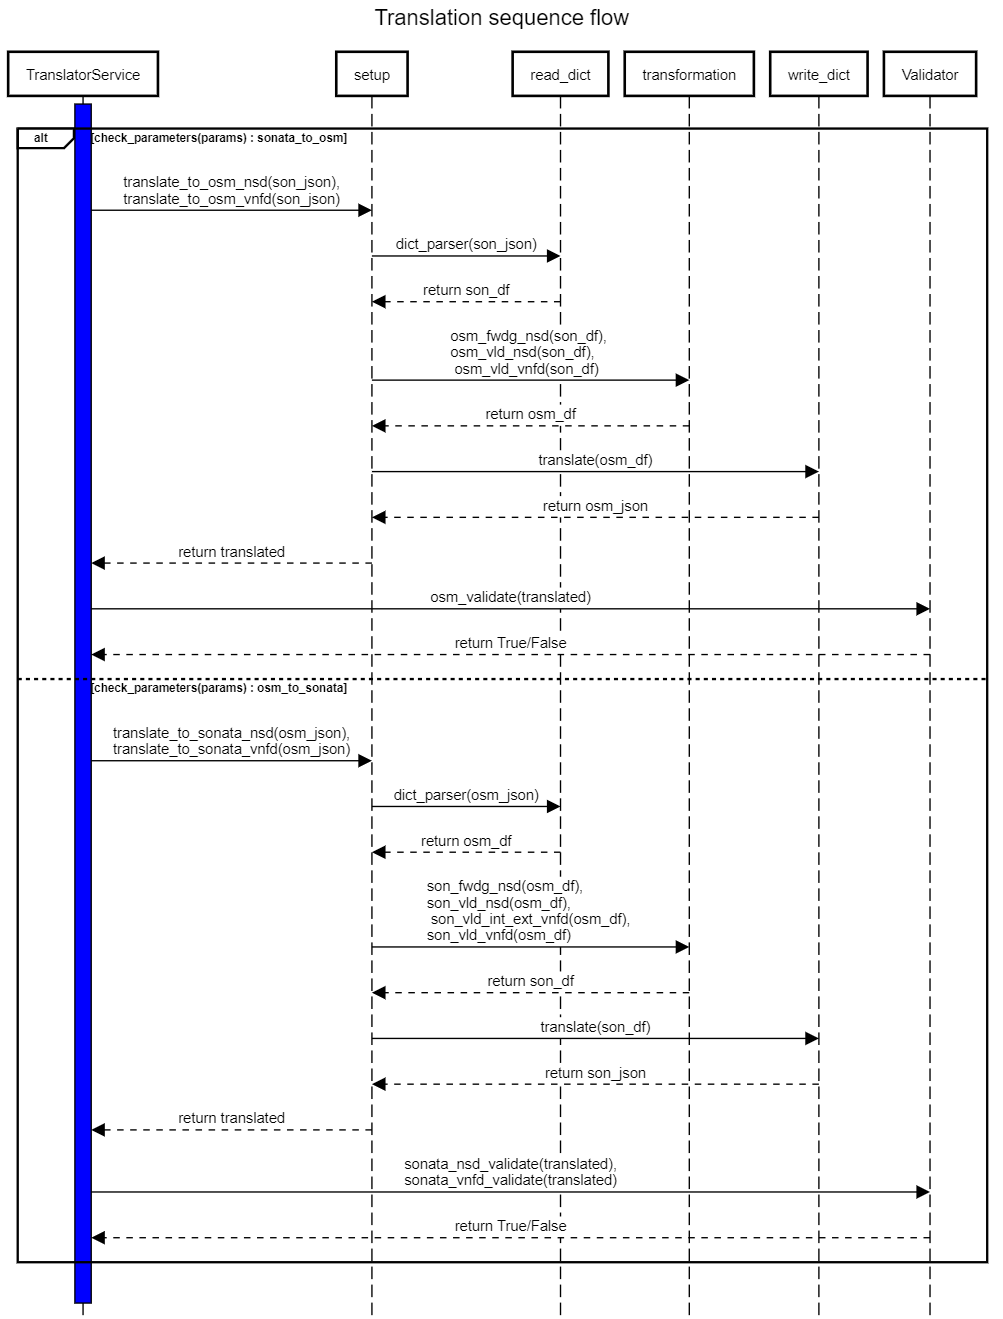
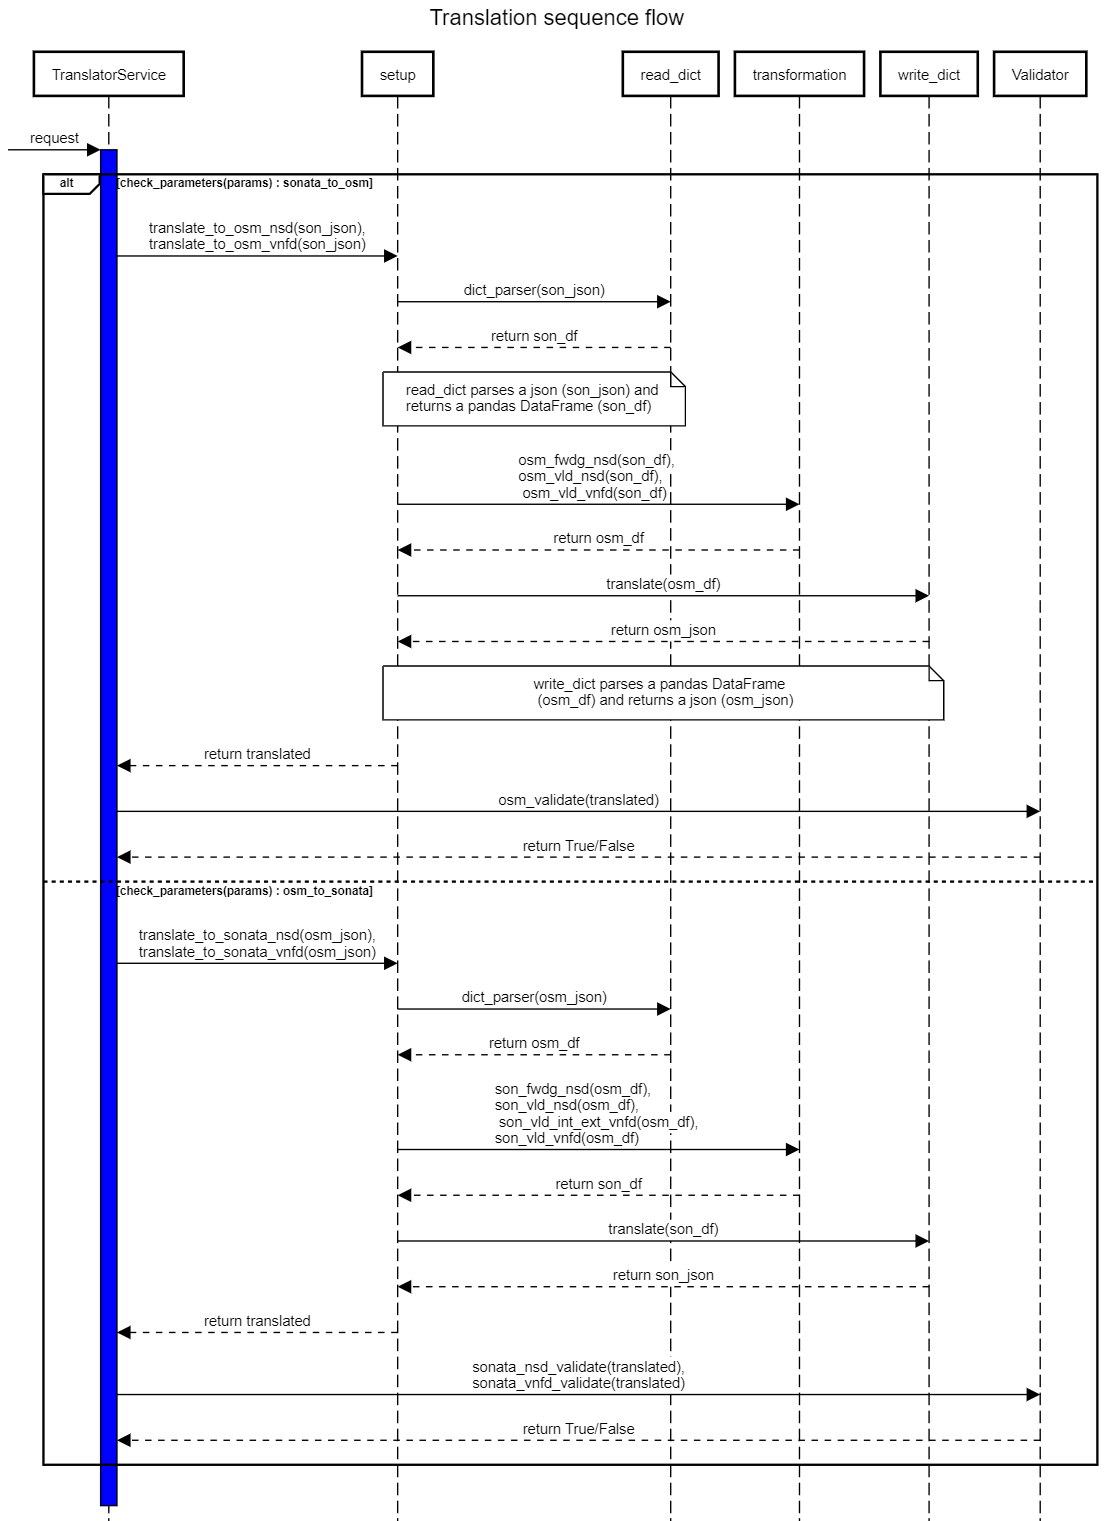
[updated] workpackages.tex for translator

diff --git a/doc/Final Project Report/chapters/WorkPackages.tex b/doc/Final Project Report/chapters/WorkPackages.tex
@@ -6,9 +6,6 @@
 In a hierarchical architecture involving different MANOs, there is a need of conversion of network descriptors to schemas of respective MANO. Service Descriptor Translator (SDT) serves the purpose of translating network descriptors, namely NSDs and VNFDs from schema of SONATA Pishahang to that of OSM and vice versa.
 \paragraph{}
 In a scenario, where a parent MANO, say Pishahang decides to deploy one of the network services in its lower hierarchy MANO, say OSM, the NSD and VNFD(s) need to be converted to the descriptor schema of OSM. In such an event, the Scramble plugin calls the translator service and sends the descriptors to the SDT, where the translation of the descriptors takes place and the translated descriptors are sent to Adaptor utility for deployment in appropriate MANO. Figure \ref{fig:service-descriptor-translator} gives a high level view of Translator.
-\paragraph{}
-Scramble plug-in, installed within the parent MANO, forwards the network descriptors with service request to Scramble Main-Engine. Main-Engine checks the service request and sends the network descriptors to Translator along with the information of destination schema. On receiving the network descriptors, SDT translates the same to requested schema and calls the validator function to validate the translated network descriptors. Once validation is complete, the translated descriptors will be sent to Adaptor for deployment. 
-
 
 \begin{figure}
 	\centering
@@ -18,13 +15,13 @@ Scramble plug-in, installed within the parent MANO, forwards the network descrip
 \end{figure}
 
 \subsection{Architecture \& Work flow}
-The translator engine reads a json formatted descriptor and first converts it into a pandas \textit{DataFrame}. The \textit{DataFrame} is constructed to have the following columns.
+The translator engine reads a json formatted descriptor and first converts it into a pandas \textit{DataFrame}. The \textit{DataFrame} object is constructed to have the following columns.
 
 \begin{table}[H]
 	\begin{center}
 		\caption{Descriptor represented DataFrame.}
 		\label{tab:table1}
-		\begin{tabular}{l|l} % <-- Alignments: 1st column left, 2nd middle and 3rd right, with vertical lines in between
+		\begin{tabular}{l|l} 
 			\textbf{Columns} & \textbf{Description} \\
 			\hline
 			\textbf{parent\_level} & It stores immediate parent key's depth-level \\ 
@@ -32,12 +29,23 @@ The translator engine reads a json formatted descriptor and first converts it in
 			\textbf{level} & It stores current key's depth-level \\
 			\textbf{key} & It stores current key \\
 			\textbf{value} & It stores current key's value \\
-			\textbf{lineage} & It stores current key's entire lineage from the root depth-level \\  
+			\textbf{lineage} & \makecell[l]{It stores current key's entire lineage from the root depth-level.\\ It is useful to store the nested information} \\  
 		\end{tabular}
 	\end{center}
 \end{table}
+
+The \textit{setup} and \textit{transformation} classes of the translator engine carries out all the transformation, needed to translate between OSM and Pishahang descriptors, on the \textit{DataFrame} object. Once all the transformation are over, the resulting \textit{DataFrame} is then converted again into a json (refer Figure  \ref{fig:sequence-diagram-translator}).
+
+\begin{figure}[h!]
+	\centering
+	\includegraphics[width=1\linewidth]{"figures/translator_seq_diag"}
+	\caption{Translator sequence diagram}
+	\label{fig:sequence-diagram-translator}
+\end{figure}
+
+
 \subsection{Usage}
-The Translator engine consists of the following modules:
+The Translator engine consists of the following modules (refer Figure  \ref{fig:class-diagram-translator}):
 \begin{enumerate}
 	\item descriptorReader
 	\subitem class: read\_dict
@@ -53,15 +61,16 @@ The Translator engine consists of the following modules:
 	
 \end{enumerate}
 
-\begin{figure}[H]
+\begin{figure}[h!]
 	\centering
-	\includegraphics[width=0.8\linewidth]{"figures/class_diagram_translator"}
+	\includegraphics[width=1\linewidth]{"figures/class_diagram_translator"}
 	\caption{Translator class diagram}
 	\label{fig:class-diagram-translator}
 \end{figure}
 
-\subsubsection{descriptorReader}
 
+
+\subsubsection{descriptorReader}
 The class \textit{read\_dict} is responsible to read a json/dictionary input (NSD/VNFD) and iterate over the keys and return a generator of an object to the calling program. This generator can be transformed to any python data structure for ease of use and navigation. 
 
 The input to this module is a json or dictionary object.
@@ -113,96 +122,67 @@ The class \textit{transformation} acts as a helper class for the task of transfo
 
 The class \textit{TranslatorService} is the interface where the actual translation request comes in. After a tranlsation request is received along with a descriptor, it calls the above modules translate and validate the descriptors (NSD/VNFD).
 
-This following function translates OSM descriptor to Pishahang.
-\begin{lstlisting}[language=Python,caption= Translating OSM descriptor to Pishahang, label=lis:toSOnata]
+This following function translates OSM descriptor to Pishahang and vise-versa.
+\begin{lstlisting}[language=Python,caption= Translating descriptor between Pishahang and OSM, label=lis:toSOnata]
 import pymongo
 from validate import validator
 from utilities import setup
 
-def toSonata(received_file):
 
-client = pymongo.MongoClient("mongodb://mongo:27017")
-setup_obj = setup(client)
-validate_obj = validator()
+class TranslatorService():
+
+def __init__(self,client = pymongo.MongoClient("mongodb://mongo:27017")):
+self.setup_obj = setup(client)
+self.validate_obj = validator()
+
+
+def toSonata(self,received_file):
 
 if 'vnfd:vnfd-catalog' in received_file:
 
-## mongoDB document object to store the translated vnfd
-doc = setup_obj.db_descriptors["translated_vnfd"]
+doc = self.setup_obj.db_descriptors["translated_vnfd"]
+translated = self.setup_obj.translate_to_sonata_vnfd(received_file)
 
-## getting a translated sonata vnfd
-translated = setup_obj.translate_to_sonata_vnfd(received_file)
-
-## validating the translated descriptor which returns a "True"/ "False" string
-check = validate_obj.sonata_vnfd_validate(translated)
+check = self.validate_obj.sonata_vnfd_validate(translated)
 
 if check == "True":
-## insert into mongoDB as a Document
 temp = doc.insert_one(translated)
 translated_ref = temp.inserted_id
 
 elif 'nsd:nsd-catalog' in received_file:
 
-## mongoDB document object to store the translated nsd
-doc = setup_obj.db_descriptors["translated_nsd"]
+doc = self.setup_obj.db_descriptors["translated_nsd"]
+translated = self.setup_obj.translate_to_sonata_nsd(received_file)
 
-## getting a translated sonata nsd
-translated = setup_obj.translate_to_sonata_nsd(received_file)
+check = self.validate_obj.sonata_nsd_validate(translated)
 
-## validating the translated descriptor which returns a "True"/ "False" string
-check = validate_obj.sonata_nsd_validate(translated)
-
-if check == "True"
-## insert into mongoDB as a Document
+if check == "True":
 temp = doc.insert_one(translated)
 translated_ref = temp.inserted_id
 
 return {"descriptor":translated ,"VALIDATE STATUS" :check}
-\end{lstlisting}
 
-\pagebreak
-
-The following function translates Pishahang descriptor to OSM.
-\begin{lstlisting}[language=Python,caption=Translating Pishahang descriptor to OSM, label=lis:toOSM]
-import pymongo
-from validate import validator
-from utilities import setup
-
-def toOsm(received_file):
-
-client = pymongo.MongoClient("mongodb://mongo:27017")
-setup_obj = setup(client)
-validate_obj = validator()
+def toOsm(self,received_file):
 
 if 'network_functions' in received_file:
 
-## mongoDB document object to store the translated nsd
-doc = setup_obj.db_descriptors["translated_nsd"]
+doc = self.setup_obj.db_descriptors["translated_nsd"]
+translated = self.setup_obj.translate_to_osm_nsd(received_file)
 
-## getting a translated osm nsd
-translated = setup_obj.translate_to_osm_nsd(received_file)
-
-## validating the translated descriptor which returns a "True"/ "False" string
-check= validate_obj.osm_validator(translated)
+check= self.validate_obj.osm_validator(translated)
 
 if check == "True":
-## insert into mongoDB as a Document
 temp = doc.insert_one(translated)
 translated_ref = temp.inserted_id
 
 elif 'virtual_deployment_units' in received_file:
 
-## mongoDB document object to store the translated vnfd
-doc = setup_obj.db_descriptors["translated_vnfd"]
+doc = self.setup_obj.db_descriptors["translated_vnfd"]
+translated = self.setup_obj.translate_to_osm_vnfd(received_file)
 
-## getting a translated osm vnfd
-translated = setup_obj.translate_to_osm_vnfd(received_file)
-
-## validating the translated vnfd which returns a "True"/ "False" string
-check= validate_obj.osm_validator(translated)
+check= self.validate_obj.osm_validator(translated)
 
 if check == "True":
-## insert into mongoDB as a Document
 temp = doc.insert_one(translated)
 translated_ref = temp.inserted_id
 
@@ -226,7 +206,7 @@ Translator engine currently doesnot support the following:
 \end{enumerate}
 
 \subsubsection{Forwarding Graph}
-Although translation of forwarding graphs between OSM and  Pishahang has been implemented, we could not verify the translation as the forwarding graph logic is not currently feasible in both MANOs.
+Although translation of forwarding graphs between OSM and  Pishahang has been implemented, we could not verify the translation as the forwarding graph logic was not currently feasible during our implementation period in both OSM and Pishahang.
 
 \subsubsection{Juju charms in OSM}
 MANOs provide programmable and flexible management and orchestration of VNFs. OSM provides this flexibility through juju charms and Pishahang provides this through SSM/FSM (a container based solution). Because of these technological differences, direct translation between juju charms in OSM, and SSM (Service Specific Manager) and FSM (Function Specific Manager) in Pishahang is not possible. 
@@ -243,7 +223,7 @@ As an alternative, it is possible to add charms functionality to Pishahang so th
 
 
 \subsubsection{Monitoring Parameters}
-Translation could be extended to include the monitoring parameters as well. However verifying monitoring parameters were currently not feasible in OSM, so we sidelined for future scope.
+Translation could be extended to include the monitoring parameters as well. However verifying monitoring parameters were not feasible in OSM during our implementation period, so we sidelined for future scope.
 
 \newpage
 
@@ -390,7 +370,7 @@ This function sends the gatekeeper a payload which consists of a token "\textit{
 
 The gatekeeper also ensures the payload contains this additional package when it creates a new instantiation request and informs the SLM. 
 
-\begin{lstlisting}[caption=create instantiation request in gatekeeper, label=lis:request.rb]
+\begin{lstlisting}[caption=create instantiation request in gatekeeper(request.rb), label=lis:request.rb]
 
 post '/requests/?' do
 log_msg = MODULE + '::POST /requests'
@@ -406,9 +386,6 @@ user_data = params.delete 'user_data' if params['user_data']
 
 begin
 {...} ## unchanged
-start_request['egresses'] = egresses
-start_request['ingresses'] = ingresses
-start_request['user_data'] = user_data
 
 if params['scramble'] == true
 start_request['scramble'] = true 
@@ -421,14 +398,21 @@ end
 
 \end{lstlisting}
 
+\begin{figure}[H]
+	\centering
+	\includegraphics[width=1\linewidth]{"figures/scramble_seq_diag"}
+	\caption{Integration sequence diagram}
+	\label{fig:sequence-diagram-scramble}
+\end{figure}
+
 \subsection{\textbf{SLM\_mapping\_scramble}}
 
 This member function, together with four other helper functions, is responsible for treating requests routed for translation, splitting and sending the descriptor for instantiating in other MANOs. The 4 other helper functions used by it are as follows:
-\begin{table}[h!]
+\begin{table}[H]
 	\begin{center}
 		\caption{Helper functions.}
 		\label{tab:table2}
-		\begin{tabular}{l|l} % <-- Alignments: 1st column left, 2nd middle and 3rd right, with vertical lines in between
+		\begin{tabular}{l|l} 
 			\textbf{Functions} & \textbf{Description} \\
 			\hline\\
 			\textbf{get\_network\_functions} & \makecell[l]{It gets the network function names and ids from \\ the service descriptor.} \\\\
